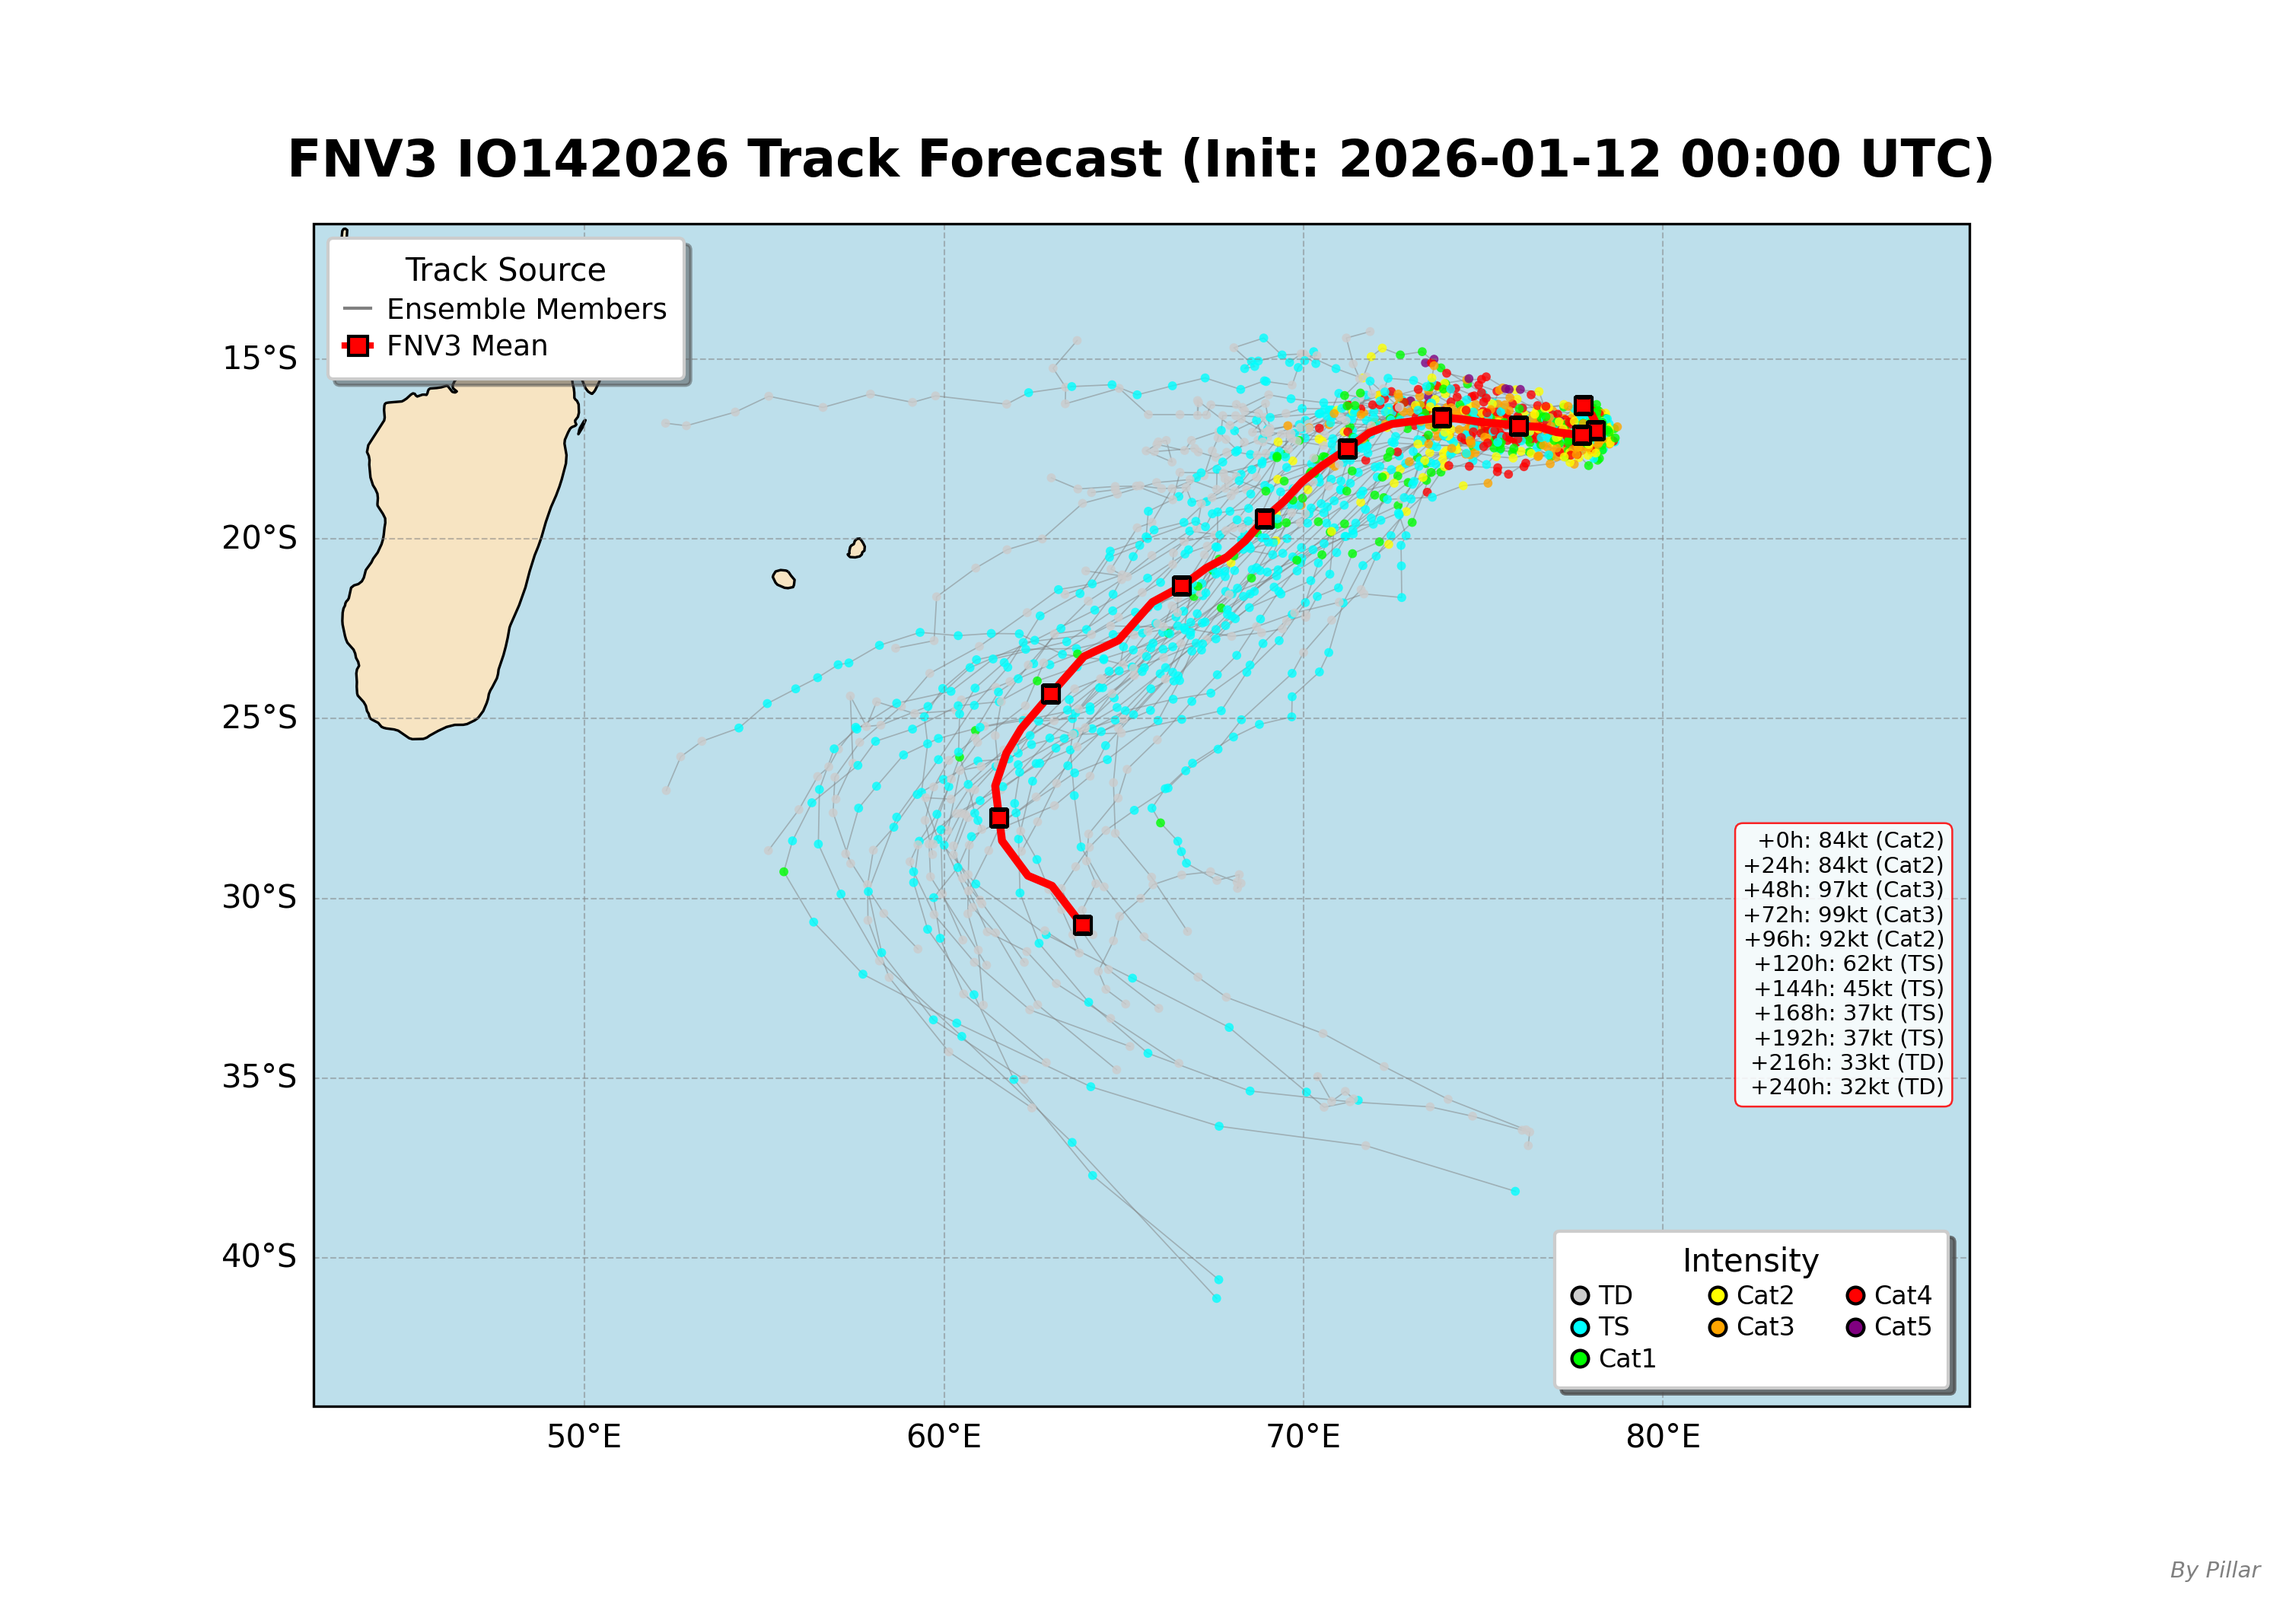
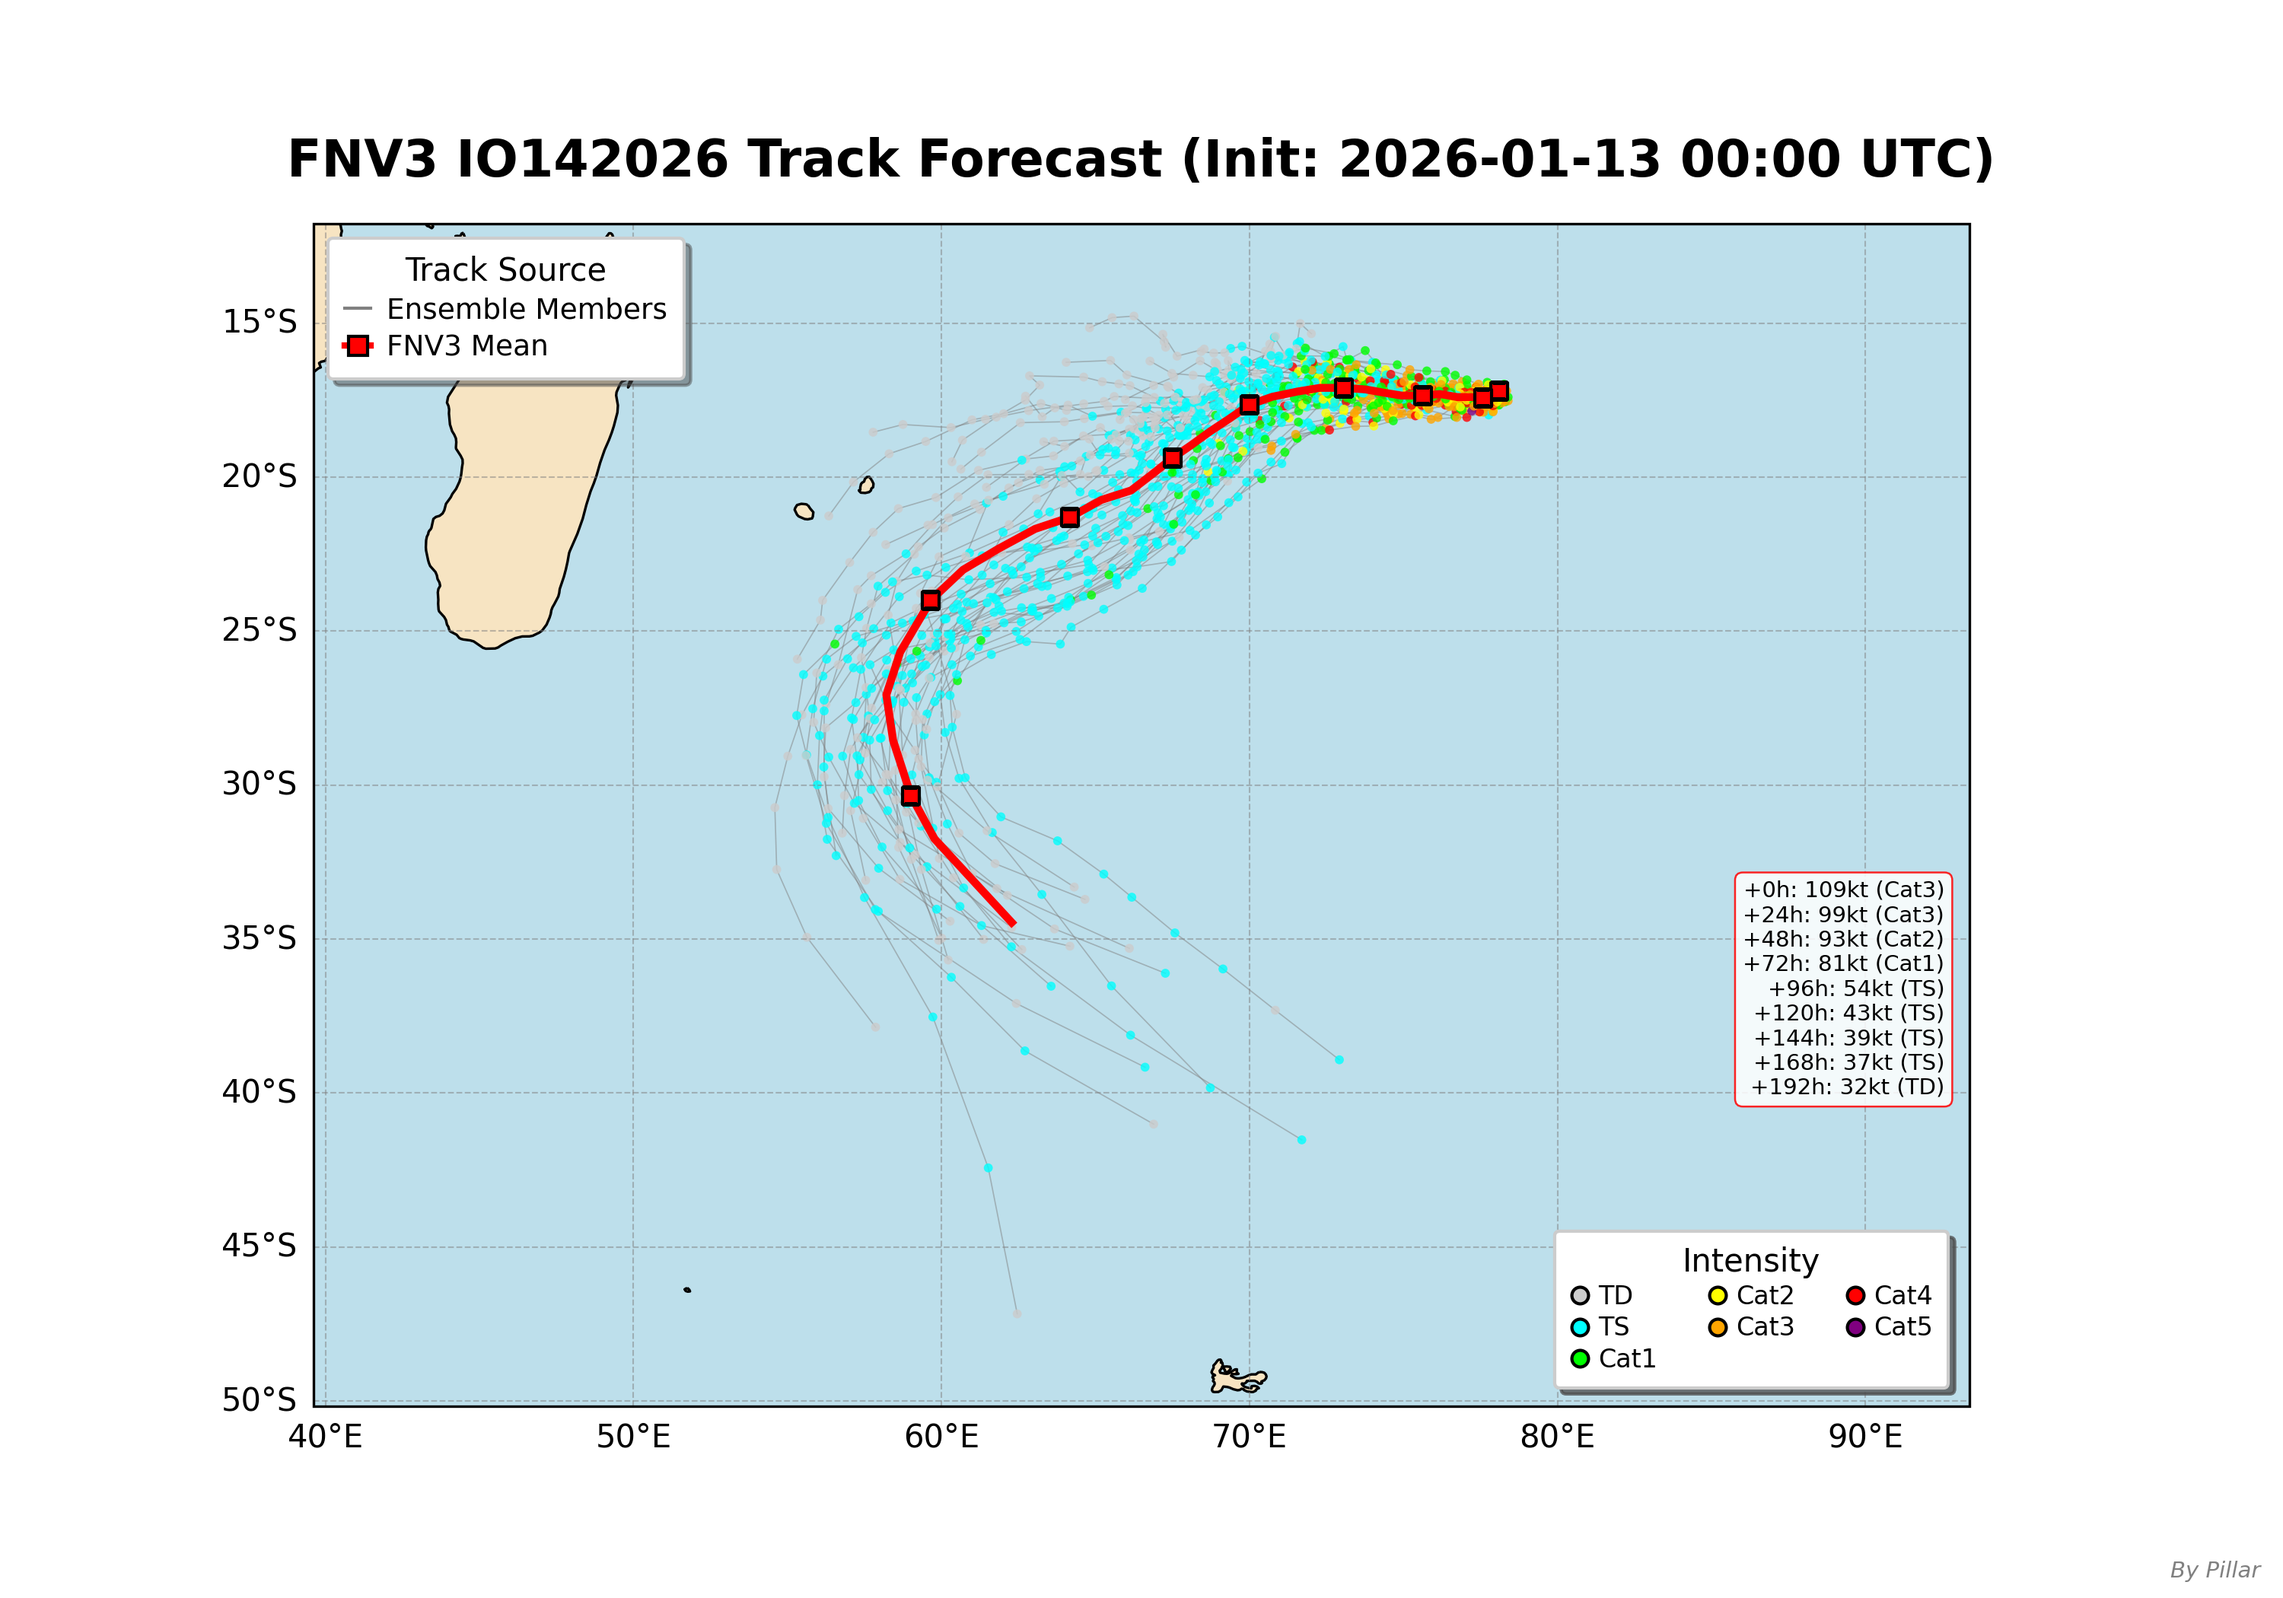
Add files via upload

diff --git a/index.html b/index.html
@@ -689,7 +689,7 @@
                     <div class="subtitle">Real-time FNV3 Ensemble Forecast System</div>
                 </div>
                 <div class="update-badge">
-                    ⏰ Updated: 2026-01-12 17:34:38
+                    ⏰ Updated: 2026-01-13 19:01:25
                 </div>
             </div>
         </header>
@@ -708,11 +708,11 @@
                 <div class="info-grid">
                     <div class="info-item">
                         <div class="info-label">🛰 Current Time</div>
-                        <div class="info-value">120600 Z</div>
+                        <div class="info-value">130600 Z</div>
                     </div>
                     <div class="info-item">
                         <div class="info-label">📍 Current Position</div>
-                        <div class="info-value">16.7°S, 77.8°E</div>
+                        <div class="info-value">17.3°S, 77.9°E</div>
                     </div>
                     <div class="info-item">
                         <div class="info-label">💨 Maximum Wind</div>
@@ -727,15 +727,15 @@
                     </div>
                     <div class="info-item mobile-wind-radii" style="grid-column: span 2;">
                         <div class="info-label">🌀 34 kt Wind Radii</div>
-                        <div class="info-value">NE: 050 / SE: 060 / SW: 050 / NW: 050 nm</div>
+                        <div class="info-value">NE: 055 / SE: 065 / SW: 065 / NW: 045 nm</div>
                     </div>
                     <div class="info-item mobile-wind-radii" style="grid-column: span 2;">
                         <div class="info-label">🌀 50 kt Wind Radii</div>
-                        <div class="info-value">NE: 030 / SE: 030 / SW: 030 / NW: 030 nm</div>
+                        <div class="info-value">NE: 035 / SE: 030 / SW: 035 / NW: 030 nm</div>
                     </div>
                     <div class="info-item mobile-wind-radii" style="grid-column: span 2;">
                         <div class="info-label">🌀 64 kt Wind Radii</div>
-                        <div class="info-value">NE: 020 / SE: 020 / SW: 020 / NW: 020 nm</div>
+                        <div class="info-value">NE: 025 / SE: 025 / SW: 020 / NW: 020 nm</div>
                     </div>
                 </div>
 
@@ -790,9 +790,9 @@
                         <button class="control-btn" onclick="pauseAnimation('IO142026')">⏸ Pause</button>
                         <button class="control-btn" onclick="resetAnimation('IO142026')">⟲ Reset</button>
                         <div class="progress-bar-container">
-                            <input type="range" id="progress-IO142026" class="progress-slider" min="0" max="52" value="0" 
+                            <input type="range" id="progress-IO142026" class="progress-slider" min="0" max="40" value="0" 
                                    oninput="seekFrame('IO142026', this.value)">
-                            <span id="frame-counter-IO142026" class="frame-counter">1/53</span>
+                            <span id="frame-counter-IO142026" class="frame-counter">1/41</span>
                         </div>
                     </div>
                 </div>
